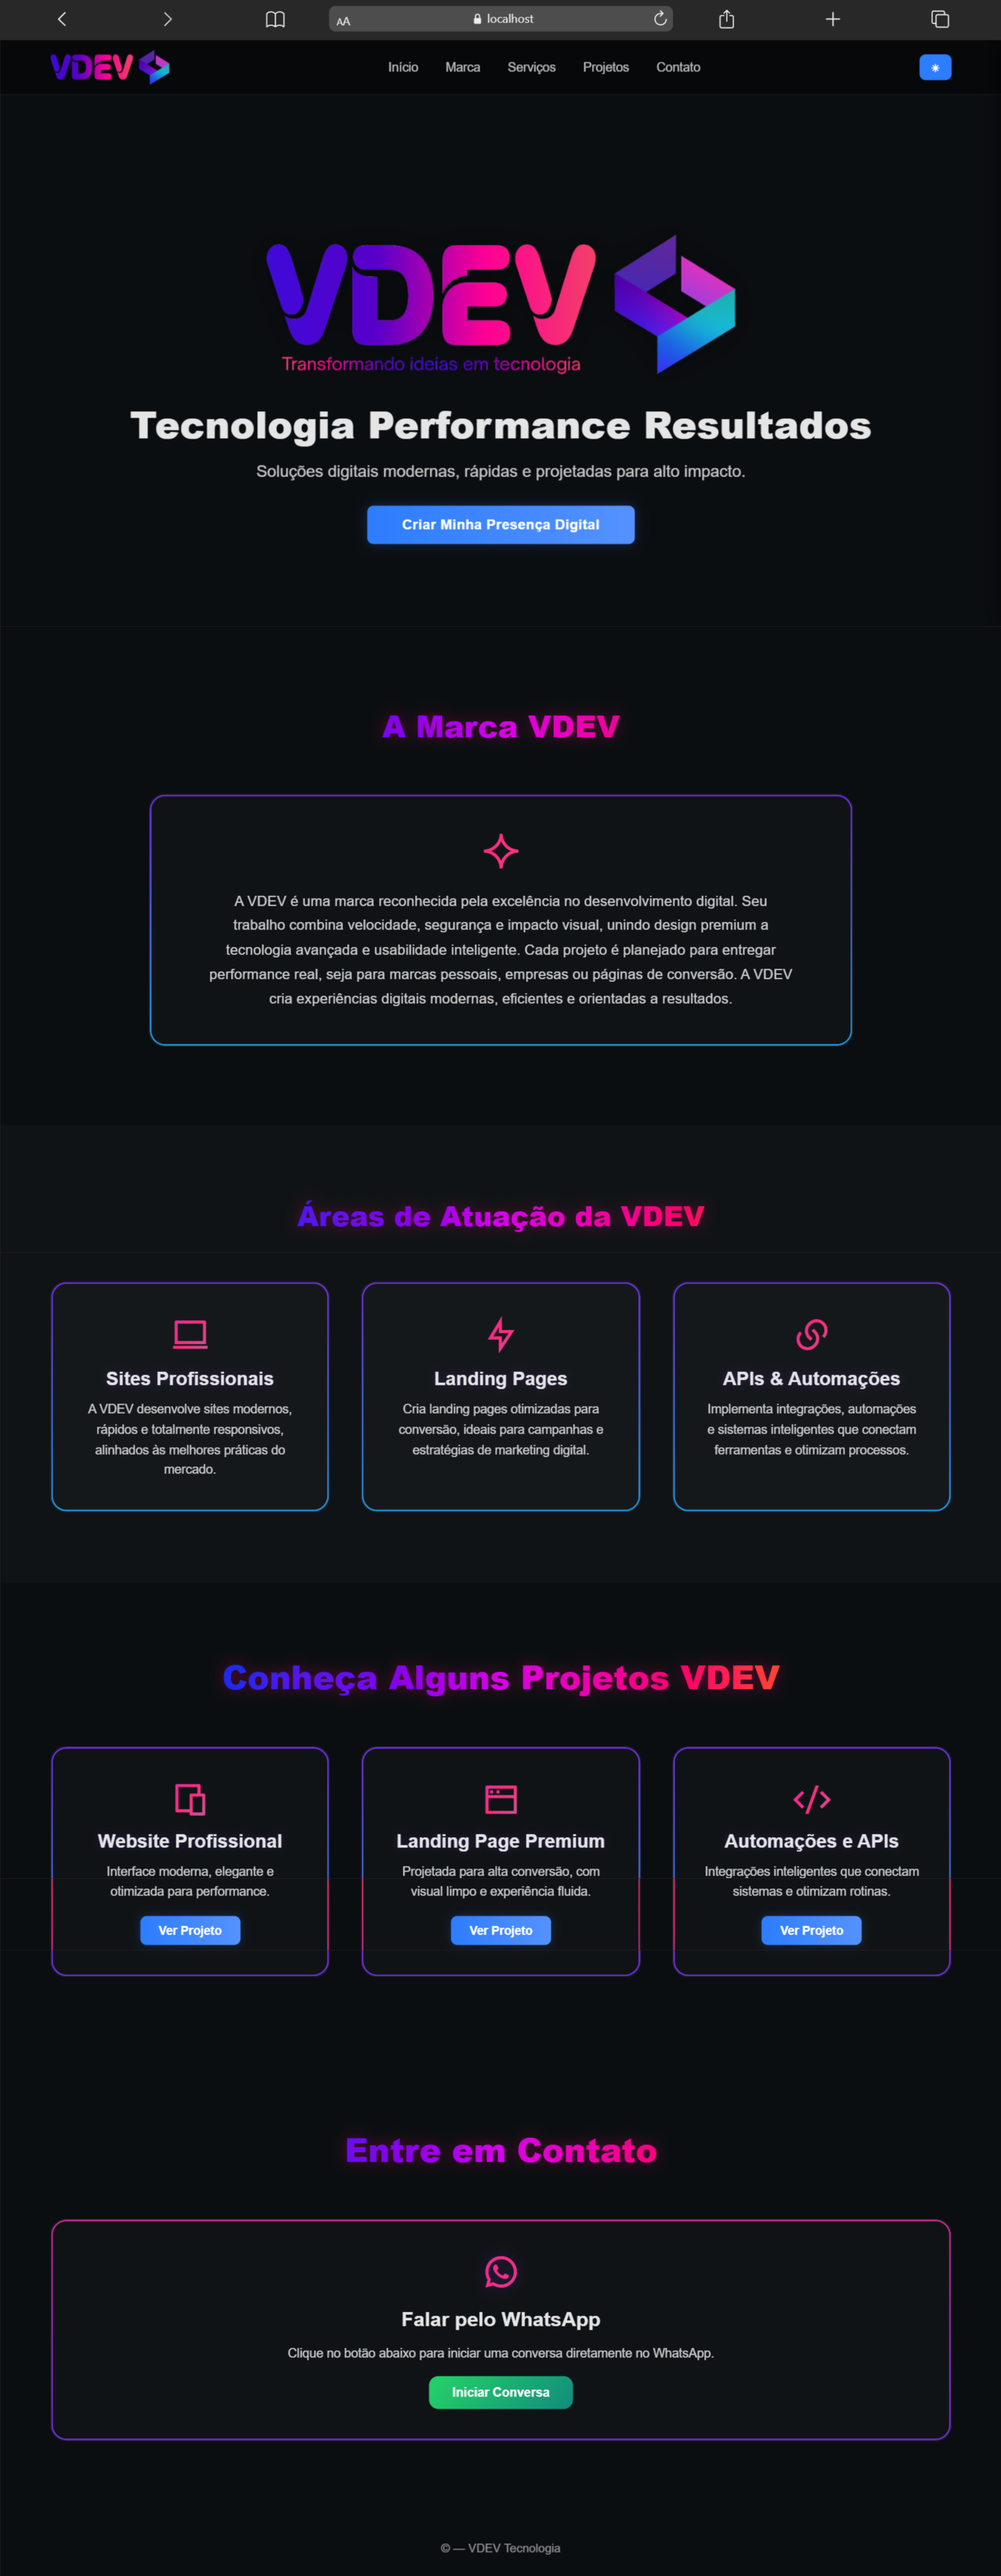
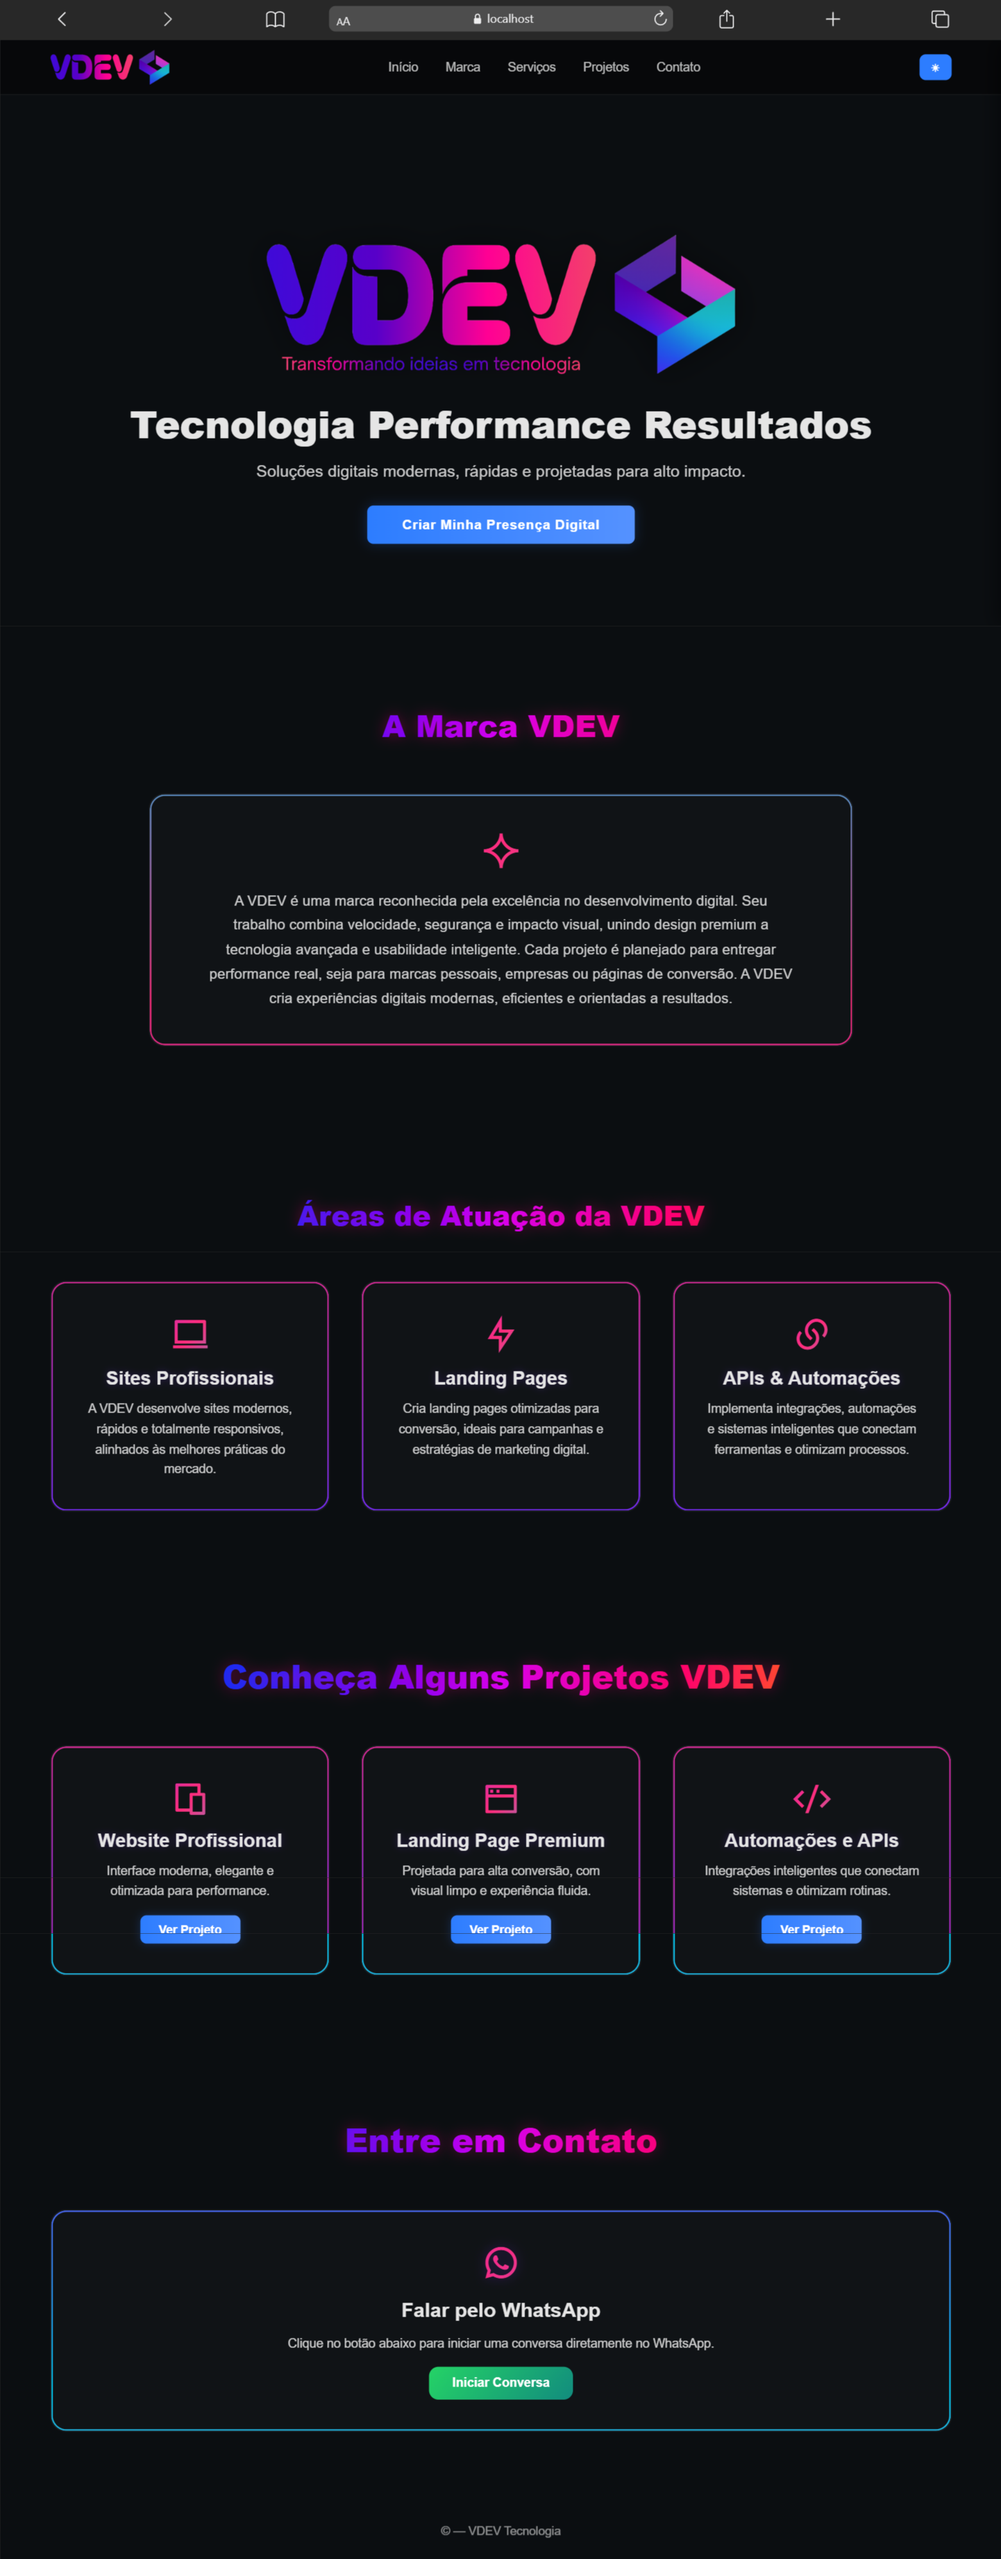
Ajustes

diff --git a/assets/js/script.js b/assets/js/script.js
@@ -15,7 +15,7 @@ document.addEventListener("DOMContentLoaded", () => {
 });
 
 // ===============================
-//  PROJETOS → MODAL COM NAVEGAÇÃO + AUTO-SCROLL
+//  PROJETOS → MODAL + AUTO-SCROLL
 // ===============================
 
 const projectImages = {
@@ -37,23 +37,26 @@ let autoScrollAnimation = null;
 let translateY = 0;
 let direction = 1;
 
-
-// Abrir modal
+// ===============================
+// Abrir modal (COM BLOQUEIO DE ROLAGEM)
+// ===============================
 document.querySelectorAll(".project-btn").forEach(btn => {
     btn.addEventListener("click", () => {
+
+        // 🔥 BLOQUEAR ROLAGEM DO BODY
+        document.body.style.overflow = "hidden";
+
         currentProject = btn.dataset.project;
         currentIndex = 0;
 
         openImage();
-
         modal.classList.add("active");
 
         startAutoScroll();
     });
 });
 
-
-// Função que troca de imagem
+// Trocar imagem
 function openImage() {
     modalImg.src = projectImages[currentProject][currentIndex];
 
@@ -65,8 +68,7 @@ function openImage() {
     setTimeout(() => startAutoScroll(), 400);
 }
 
-
-// Botão próximo
+// Navegar próximo
 nextBtn.addEventListener("click", () => {
     currentIndex++;
     if (currentIndex >= projectImages[currentProject].length) {
@@ -75,7 +77,7 @@ nextBtn.addEventListener("click", () => {
     openImage();
 });
 
-// Botão anterior
+// Navegar anterior
 prevBtn.addEventListener("click", () => {
     currentIndex--;
     if (currentIndex < 0) {
@@ -84,15 +86,16 @@ prevBtn.addEventListener("click", () => {
     openImage();
 });
 
-
-// Auto-scroll
+// ===============================
+// Auto-scroll suave da imagem
+// ===============================
 function startAutoScroll() {
     cancelAnimationFrame(autoScrollAnimation);
     animateScroll();
 }
 
 function animateScroll() {
-    translateY += 0.90 * direction;
+    translateY += 0.65 * direction;
     modalImg.style.transform = `translateY(${-translateY}px)`;
 
     const imgHeight = modalImg.scrollHeight;
@@ -108,13 +111,21 @@ function stopAutoScroll() {
     cancelAnimationFrame(autoScrollAnimation);
 }
 
-// Fechar modal
+// ===============================
+// Fechar modal (LIBERAR ROLAGEM)
+// ===============================
 function closeModal() {
+
+    // 🔥 PERMITIR ROLAGEM NOVAMENTE
+    document.body.style.overflow = "";
+
     modal.classList.remove("active");
     stopAutoScroll();
 }
 
 closeBtn.addEventListener("click", closeModal);
+
+// fecha ao clicar fora
 modal.addEventListener("click", e => {
     if (e.target === modal) closeModal();
 });
@@ -143,7 +154,7 @@ function closeMobileMenu() {
 closeMobile.addEventListener("click", closeMobileMenu);
 overlay.addEventListener("click", closeMobileMenu);
 
-// fechar após clicar em um link
+// fechar ao clicar num link
 document.querySelectorAll(".mobile-menu a").forEach(link => {
     link.addEventListener("click", closeMobileMenu);
 });

diff --git a/assets/css/style.css b/assets/css/style.css
@@ -369,7 +369,6 @@ html[data-theme="light"] .header {
 ================================*/
 .services {
     padding: 90px 0;
-    background: rgba(255,255,255,0.02);
 }
 
 .services h2 {
@@ -429,7 +428,7 @@ html[data-theme="light"] .header {
 ================================*/
 
 .contact {
-    padding: 100px 0;
+    padding: 90px 0;
     text-align: center;
 }
 
@@ -730,7 +729,7 @@ html[data-theme="light"] .header {
     left: 0;
     width: 100%;
     height: 100dvh;
-    background: rgba(0,0,0,.55);
+    background: rgba(236, 236, 236, 0.996);
     opacity: 0;
     pointer-events: none;
     transition: opacity .3s ease;
@@ -875,50 +874,6 @@ html[data-theme="light"] .header {
 
 .nav-right {
     right: 10px;
-}
-
-/* ===========================================================
-   FUNDO VDEV — ESTRELAS REALISTAS + COMETAS FUTURISTAS
-=========================================================== */
-
-.vdev-stars-layer {
-    position: fixed;
-    top: 0;
-    left: 0;
-    width: 100%;
-    height: 100%;
-    pointer-events: none;
-    overflow: hidden;
-    z-index: -1;
-}
-
-/* Estrelas pequenas brilhando */
-.star {
-    position: absolute;
-    width: 2px;
-    height: 2px;
-    background: white;
-    opacity: 0.8;
-    border-radius: 50%;
-    filter: blur(1.2px);
-    animation: starTwinkle 2s infinite ease-in-out alternate;
-}
-
-@keyframes starTwinkle {
-    from { opacity: 0.3; transform: scale(0.8); }
-    to { opacity: 1; transform: scale(1.2); }
-}
-
-@keyframes cometFall {
-    0% {
-        transform: translateY(-150px) translateX(0) rotate(var(--angle)) scaleY(0.2);
-        opacity: 0;
-    }
-    10% { opacity: 1; }
-    100% {
-        transform: translateY(900px) translateX(300px) rotate(var(--angle)) scaleY(1);
-        opacity: 0;
-    }
 }
 
 /* MOVIMENTO DA ENERGIA PELA BORDA */

diff --git a/index.html b/index.html
@@ -4,6 +4,7 @@
     <meta charset="UTF-8">
     <meta name="viewport" content="width=device-width, initial-scale=1.0">
     <title>VDEV — Desenvolvimento Futurista</title>
+    <link rel="icon" type="image/png" href="assets/img/favicon.png">
     <link rel="stylesheet" href="assets/css/style.css">
     <link href="https://cdn.jsdelivr.net/npm/remixicon@3.5.0/fonts/remixicon.css" rel="stylesheet">
 </head>
@@ -227,24 +228,7 @@
 </footer>
 
 <div class="vdev-stars-layer" id="vdevStars"></div>
-
 <script src="assets/js/script.js"></script>
-
-<script>
-const starsLayer = document.getElementById("vdevStars");
-/* Criar estrelas piscando */
-for (let i = 0; i < 250; i++) {
-    const s = document.createElement("div");
-    s.classList.add("star");
-
-    s.style.top = Math.random() * 100 + "vh";
-    s.style.left = Math.random() * 100 + "vw";
-
-    // brilho aleatório
-    s.style.animationDuration = (0.2 + Math.random() * 2) + "s";
-    starsLayer.appendChild(s);
-}
-</script>
 
 </body>
 </html>
